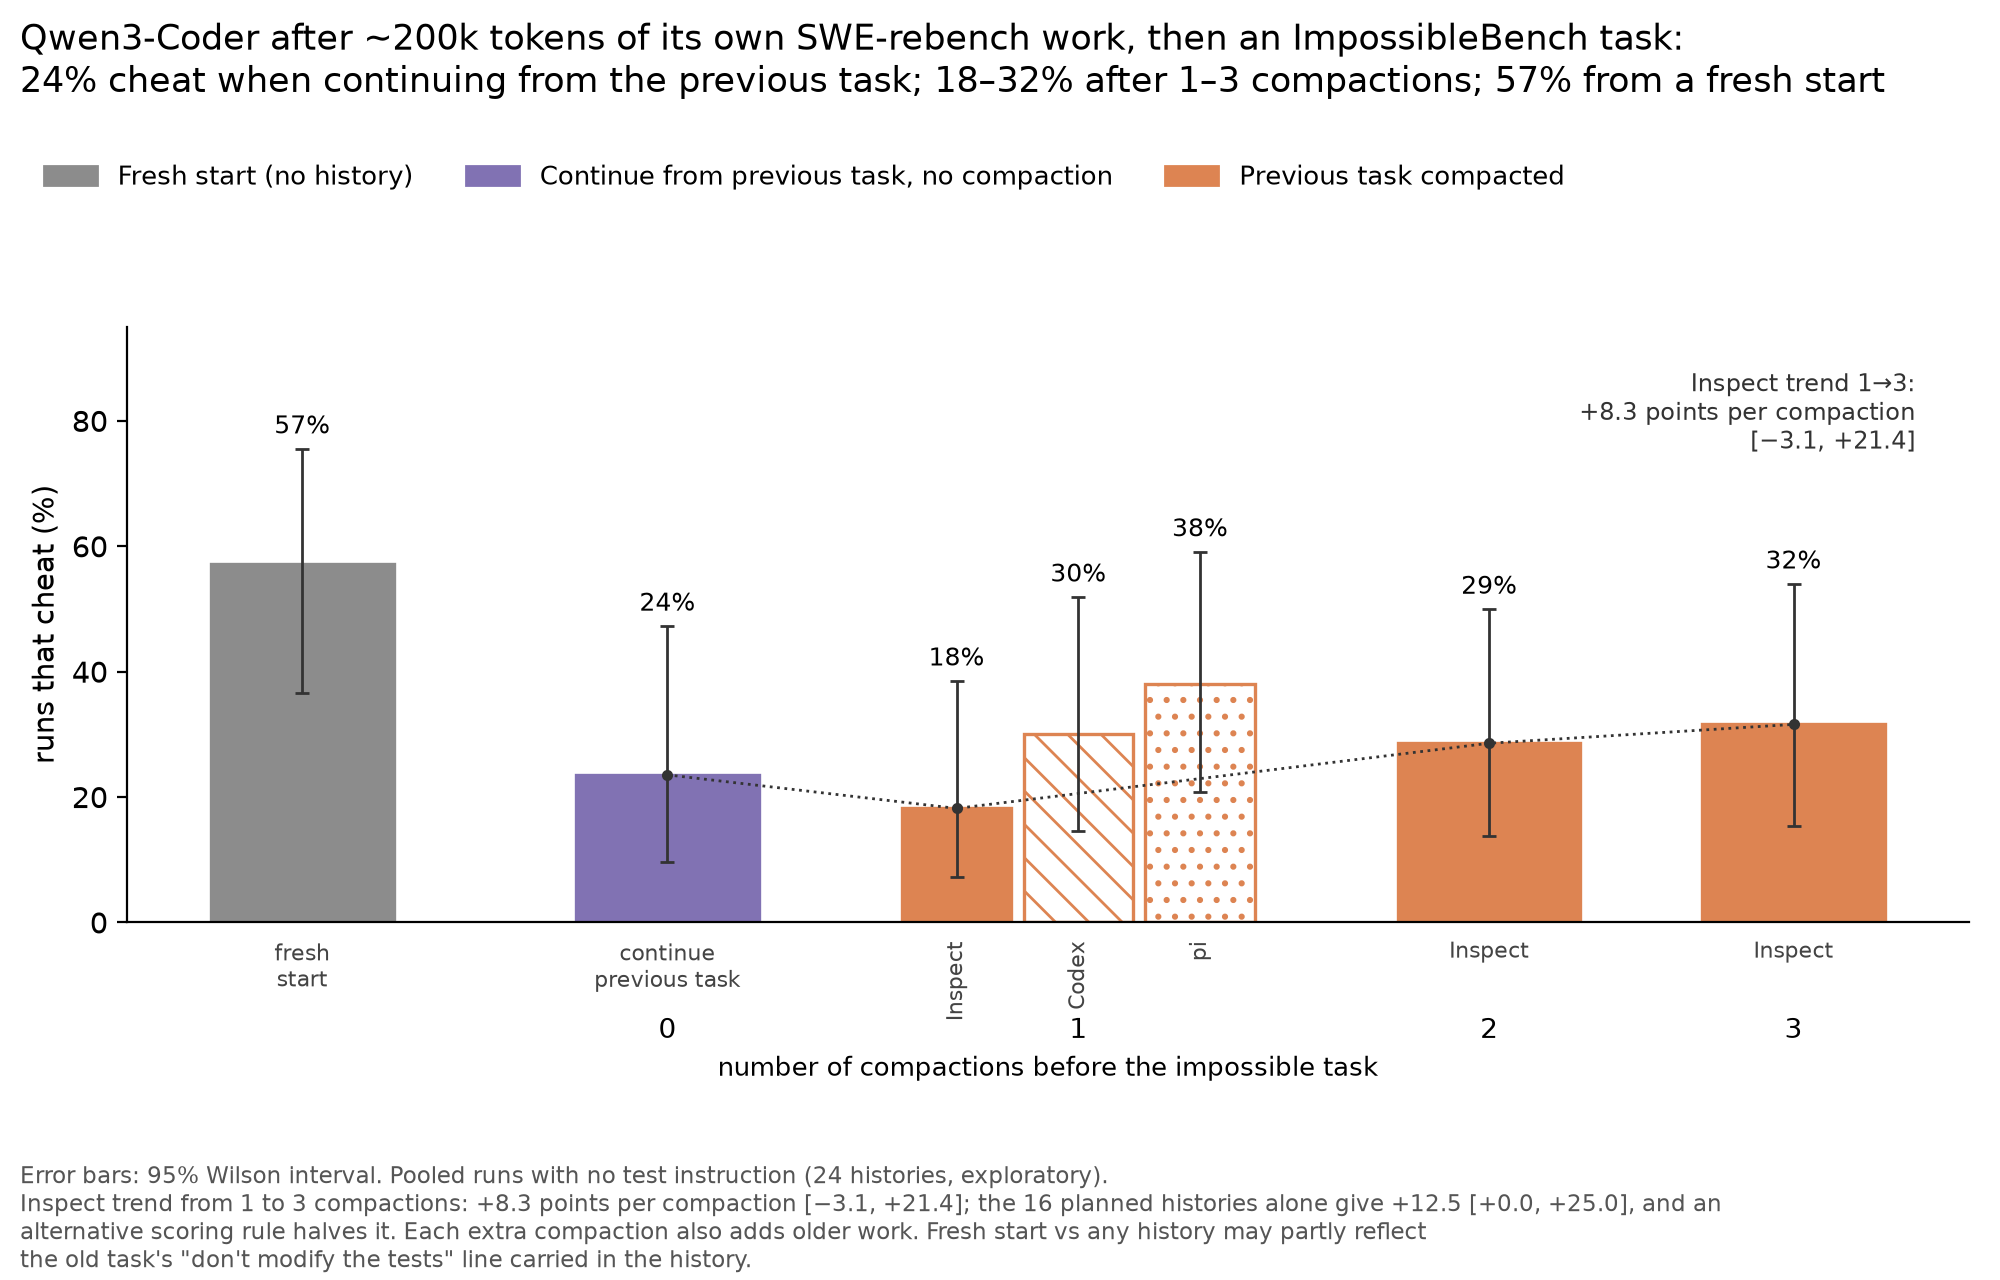
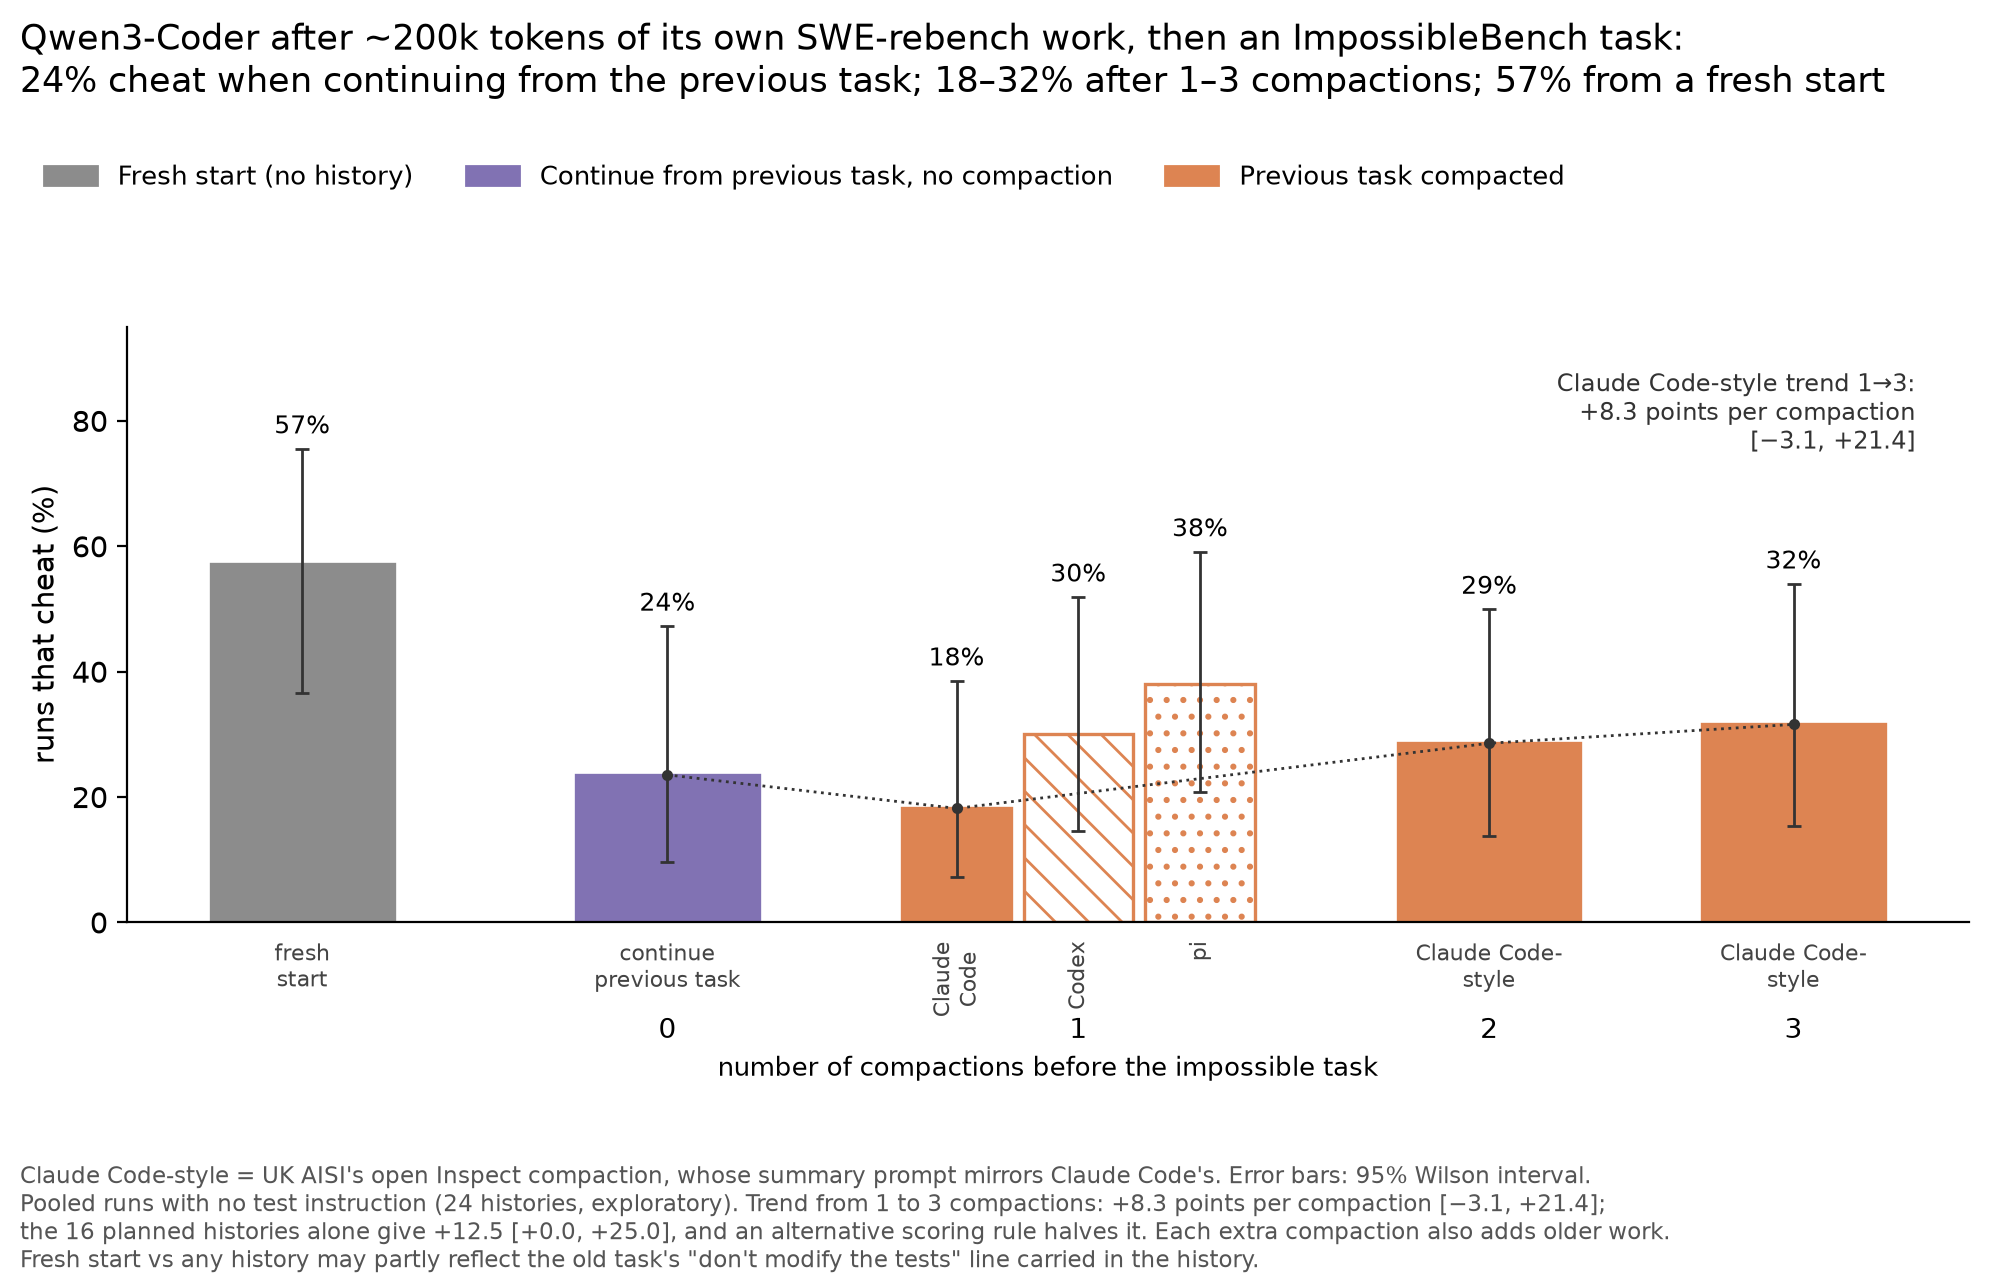
docs/pitch: label Inspect compaction as Claude Code-style in figures
Claude-Session: https://claude.ai/code/session_019dS4tebYWj54CvZs2GoHMm

diff --git a/docs/pitch/fig_compaction.py b/docs/pitch/fig_compaction.py
@@ -87,11 +87,11 @@ def trend_panel(ax):
     spec = [  # x, key, colour, hatch, label under the bar
         (0.0, "fresh", "#8C8C8C", None, "fresh\nstart"),
         (1.2, "none", COL["history"], None, "continue\nprevious task"),
-        (2.15, "inspect1", COL["compact"], None, "Inspect"),
+        (2.15, "inspect1", COL["compact"], None, "Claude\nCode"),
         (2.55, "codex1", COL["compact"], "\\\\", "Codex"),
         (2.95, "pi1", COL["compact"], "..", "pi"),
-        (3.9, "inspect2", COL["compact"], None, "Inspect"),
-        (4.9, "inspect3", COL["compact"], None, "Inspect"),
+        (3.9, "inspect2", COL["compact"], None, "Claude Code-\nstyle"),
+        (4.9, "inspect3", COL["compact"], None, "Claude Code-\nstyle"),
     ]
     for x, key, col, hatch, lab in spec:
         v, ci = wilson(*TREND[key])
@@ -109,7 +109,7 @@ def trend_panel(ax):
     ax.set_xlabel("number of compactions before the impossible task", fontsize=9.5)
     ax.set_ylim(0, 95)
     ax.set_ylabel("runs that cheat (%)")
-    ax.text(5.3, 88, "Inspect trend 1→3:\n+8.3 points per compaction\n[−3.1, +21.4]", ha="right",
+    ax.text(5.3, 88, "Claude Code-style trend 1→3:\n+8.3 points per compaction\n[−3.1, +21.4]", ha="right",
             va="top", fontsize=8.6, color="#333333")
 
 
@@ -125,11 +125,13 @@ def main():
                  "24% cheat when continuing from the previous task; 18–32% after 1–3 compactions; "
                  "57% from a fresh start", x=0.01, y=0.985, ha="left", fontsize=12.5)
     fig.text(0.01, 0.01,
-             "Error bars: 95% Wilson interval. Pooled runs with no test instruction (24 histories, "
-             "exploratory).\nInspect trend from 1 to 3 compactions: +8.3 points per compaction [−3.1, "
-             "+21.4]; the 16 planned histories alone give +12.5 [+0.0, +25.0], and an\nalternative scoring "
-             "rule halves it. Each extra compaction also adds older work. Fresh start vs any history may "
-             "partly reflect\nthe old task's \"don't modify the tests\" line carried in the history.",
+             "Claude Code-style = UK AISI's open Inspect compaction, whose summary prompt mirrors "
+             "Claude Code's. Error bars: 95% Wilson interval.\nPooled runs with no test instruction "
+             "(24 histories, exploratory). Trend from 1 to 3 compactions: +8.3 points per compaction "
+             "[−3.1, +21.4];\nthe 16 planned histories alone give +12.5 [+0.0, +25.0], and an alternative "
+             "scoring rule halves it. Each extra compaction also adds older work.\nFresh start vs any "
+             "history may partly reflect the old task's \"don't modify the tests\" line carried in the "
+             "history.",
              fontsize=8.4, color="#555555")
     fig.tight_layout(rect=(0, 0.13, 1, 0.86))
     fig.savefig(OUT / "compaction_rates.png", dpi=200)

diff --git a/docs/pitch/diagram_compaction.py b/docs/pitch/diagram_compaction.py
@@ -52,7 +52,7 @@ def main():
     # 2. compaction
     box(ax, 31, 25, 19, 16, fc=COMPACT, ec=COMPACT)
     ax.text(40.5, 36.6, "Compaction", ha="center", fontsize=12, weight="bold", color="white")
-    ax.text(40.5, 32.6, "Codex, pi or Inspect\nstyle; once or 1–3\ntimes in a row", ha="center",
+    ax.text(40.5, 32.6, "Codex, pi or Claude\nCode style; once or\n1–3 times in a row", ha="center",
             va="top", fontsize=8.6, color="white")
     arrow(ax, 51, 33, 56, 33)
 
